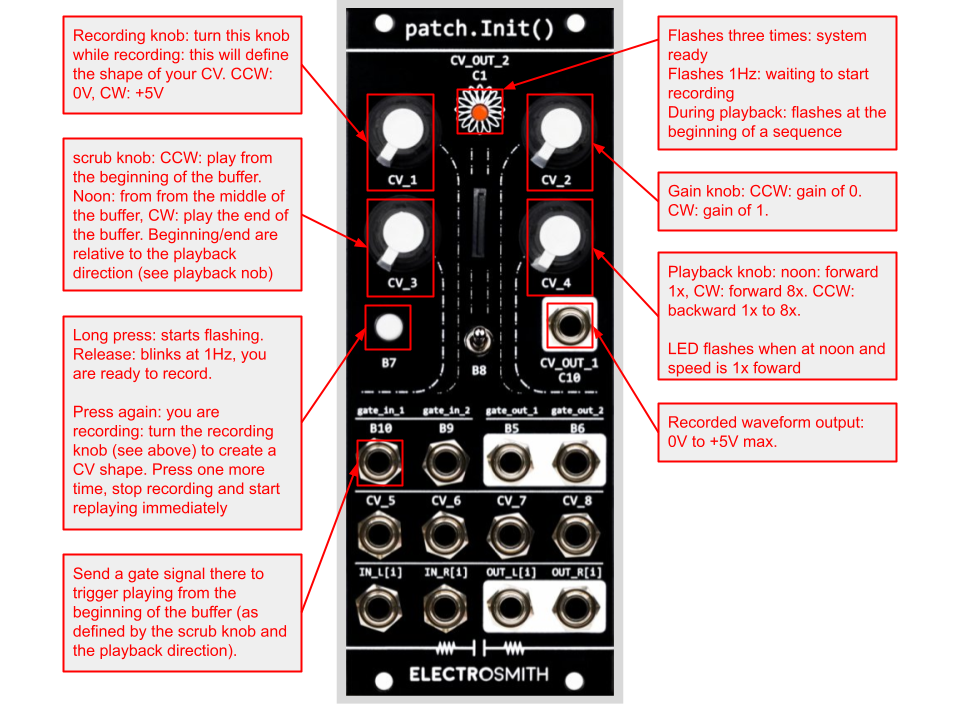
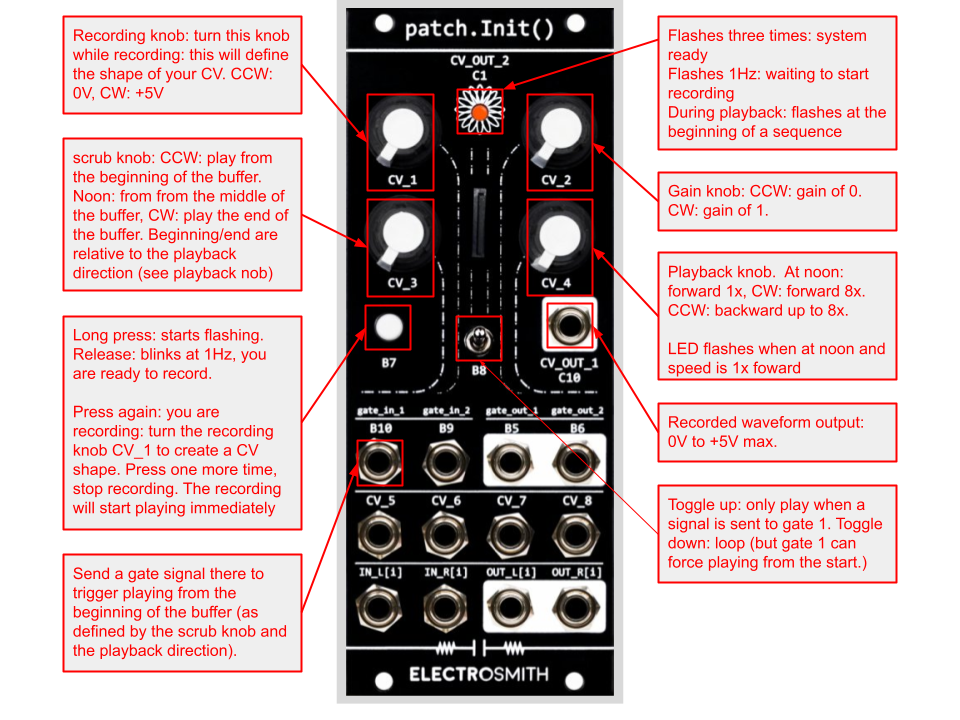
Adjustments to the manual...

diff --git a/README.md b/README.md
@@ -110,10 +110,8 @@ knob #2 and speed/direction of the replay with knob #4.
 
 Left TODO:
 
-- Gate out on sequence start
-
-- Use the toggle to switch to pick which wave is recorded and knob #1
-  is then used to mix between the two wave forms.
+- Use the toggle to switch between looping and only being triggered on
+  input gate #1.
 
 
 
